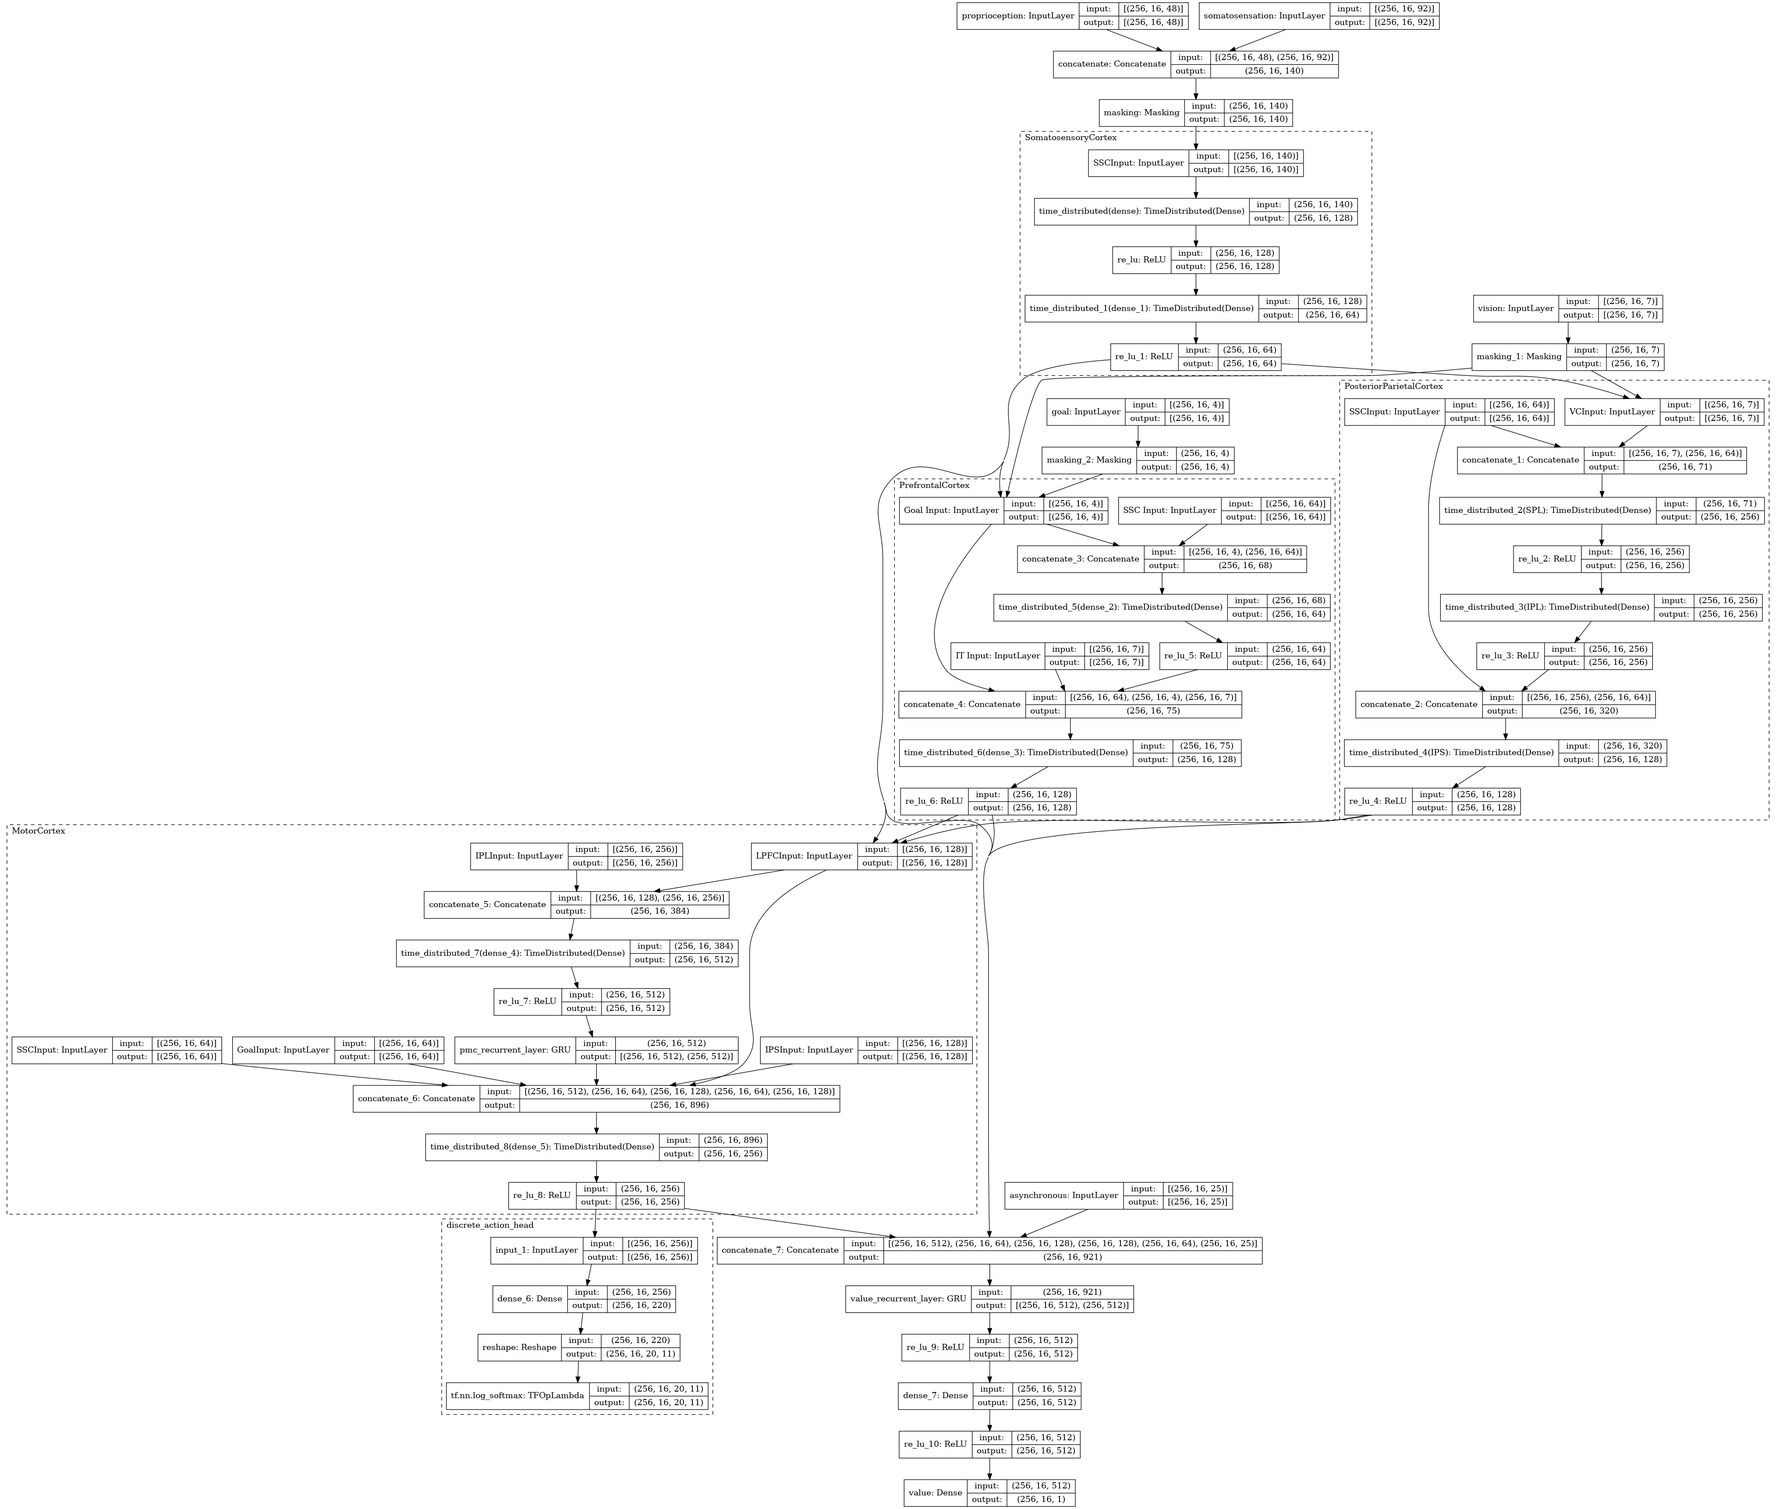
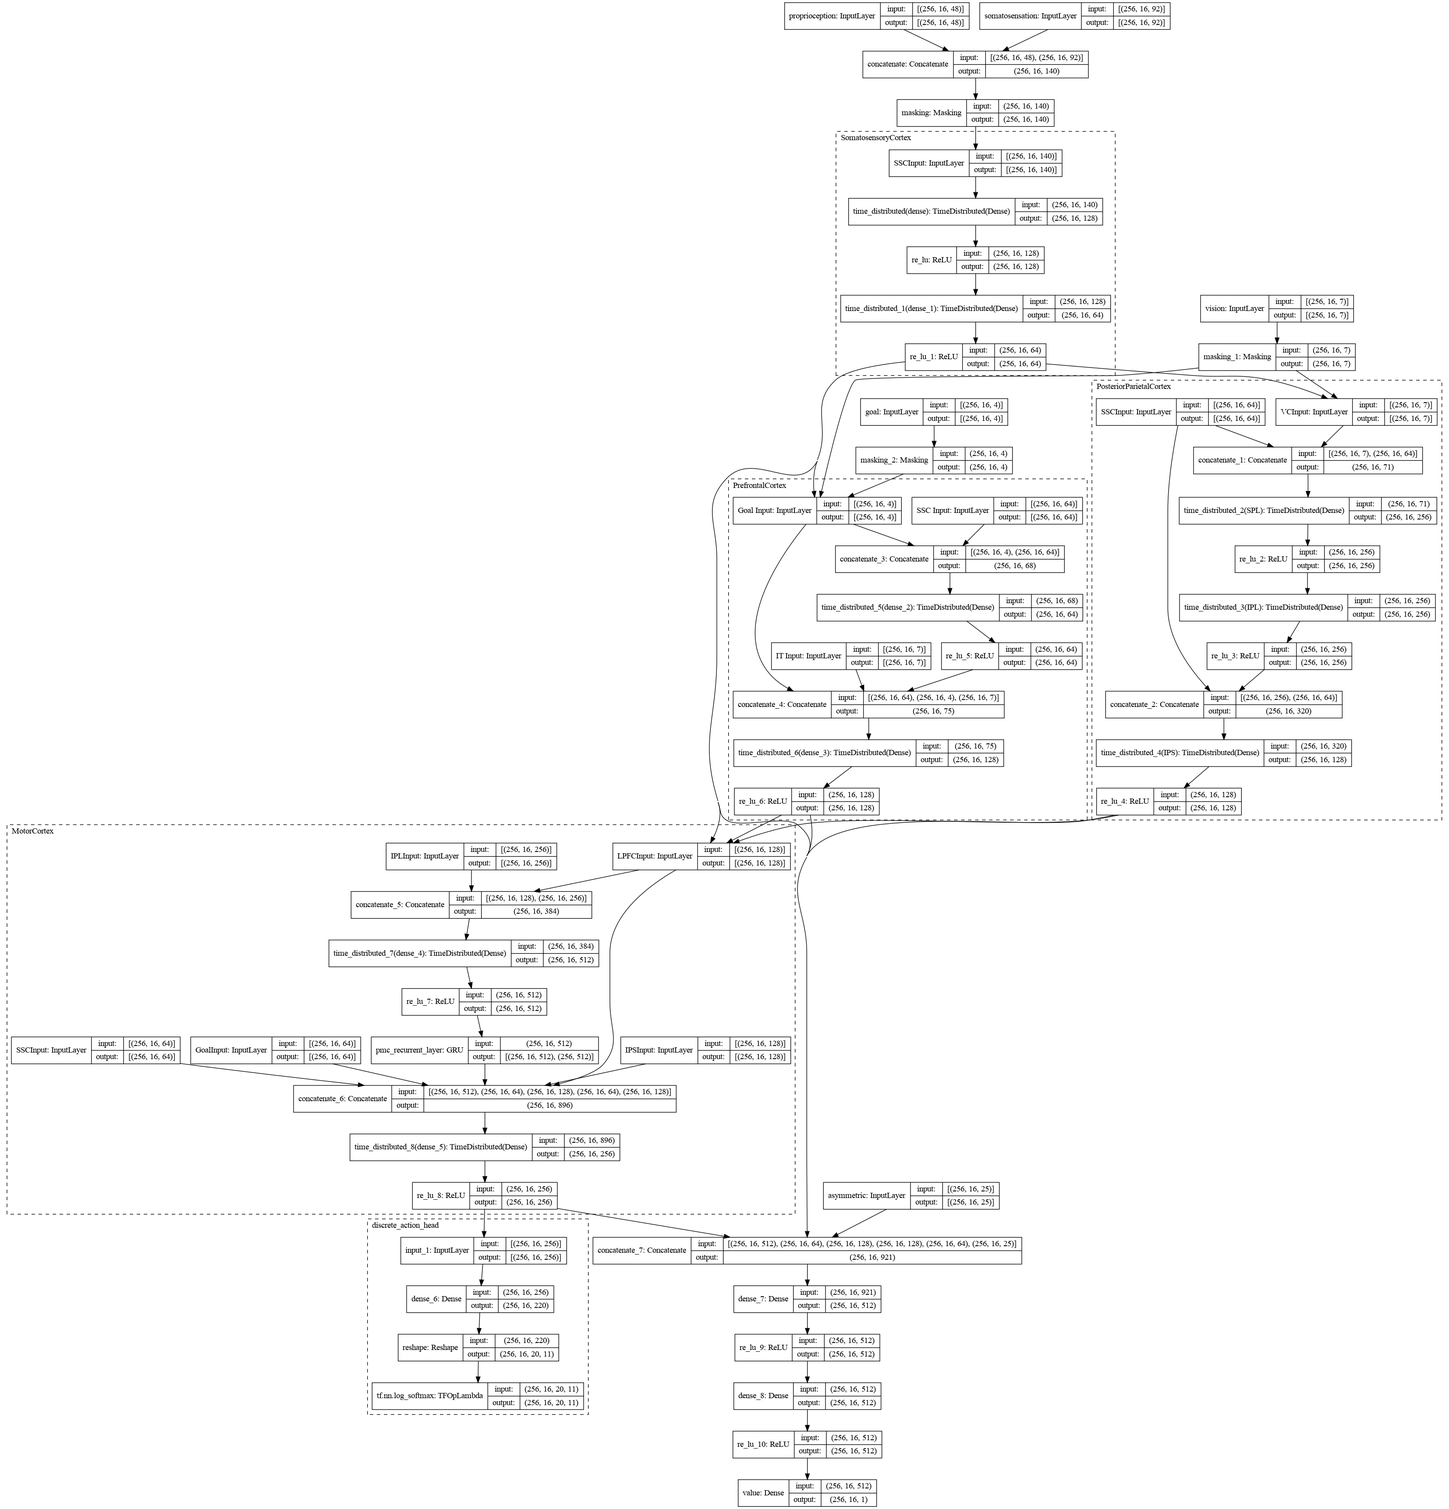
Fixed terminology for touch and asymmetric; Added backwardscompatibility for this change when loading transformers.

diff --git a/angorapy/common/senses.py b/angorapy/common/senses.py
@@ -10,20 +10,20 @@ class Sensation(dict):
     encapsulated too. The convention is to refer to any non-sensory data as proprioception, following the intuition
     that it represents inner states."""
 
-    sense_names = ["vision", "somatosensation", "proprioception", "goal", "asynchronous"]
+    sense_names = ["vision", "touch", "proprioception", "goal", "asymmetric"]
 
-    def __init__(self, vision: np.ndarray = None, proprioception: np.ndarray = None, somatosensation: np.ndarray = None,
-                 goal: np.ndarray = None, asynchronous: np.ndarray = None):
+    def __init__(self, vision: np.ndarray = None, proprioception: np.ndarray = None, touch: np.ndarray = None,
+                 goal: np.ndarray = None, asymmetric: np.ndarray = None):
         super().__init__()
 
-        assert not all(s is None for s in (vision, somatosensation, proprioception, goal)), \
+        assert not all(s is None for s in (vision, touch, proprioception, goal)), \
             "Sensation requires data for at least on sense (or 'goal')."
 
         self.vision = vision.astype(np.float32) if vision is not None else None
-        self.somatosensation = somatosensation.astype(np.float32) if somatosensation is not None else None
+        self.touch = touch.astype(np.float32) if touch is not None else None
         self.proprioception = proprioception.astype(np.float32) if proprioception is not None else None
         self.goal = goal.astype(np.float32) if goal is not None else None
-        self.asynchronous = asynchronous.astype(np.float32) if asynchronous is not None else None
+        self.asymmetric = asymmetric.astype(np.float32) if asymmetric is not None else None
 
     def __repr__(self):
         return str(self.__dict__)
@@ -41,18 +41,13 @@ class Sensation(dict):
 
     @property
     def s(self):
-        """Shortcut for somatosensation."""
-        return self.somatosensation
-
-    @property
-    def touch(self):
-        """Shortcut for somatosensation."""
-        return self.somatosensation
+        """Shortcut for touch."""
+        return self.touch
 
     @property
     def t(self):
-        """Shortcut for somatosensation."""
-        return self.somatosensation
+        """Shortcut for touch."""
+        return self.touch
 
     @property
     def p(self):
@@ -67,7 +62,7 @@ class Sensation(dict):
     # MAGIC
 
     def __iter__(self):
-        return iter((self.vision, self.somatosensation, self.proprioception, self.goal, self.asynchronous))
+        return iter((self.vision, self.touch, self.proprioception, self.goal, self.asymmetric))
 
     def __len__(self):
         return 5
@@ -92,9 +87,9 @@ class Sensation(dict):
         new_sensation = Sensation(
             vision=self.vision + other.vision if self.vision is not None else None,
             proprioception=self.proprioception + other.proprioception if self.proprioception is not None else None,
-            somatosensation=self.somatosensation + other.somatosensation if self.somatosensation is not None else None,
+            touch=self.touch + other.touch if self.touch is not None else None,
             goal=self.goal + other.goal if self.goal is not None else None,
-            asynchronous=self.asynchronous + other.asynchronous if self.asynchronous is not None else None,
+            asymmetric=self.asymmetric + other.asymmetric if self.asymmetric is not None else None,
         )
 
         return new_sensation
@@ -103,9 +98,9 @@ class Sensation(dict):
         new_sensation = Sensation(
             vision=self.vision - other.vision if self.vision is not None else None,
             proprioception=self.proprioception - other.proprioception if self.proprioception is not None else None,
-            somatosensation=self.somatosensation - other.somatosensation if self.somatosensation is not None else None,
+            touch=self.touch - other.touch if self.touch is not None else None,
             goal=self.goal - other.goal if self.goal is not None else None,
-            asynchronous=self.asynchronous - other.asynchronous if self.asynchronous is not None else None,
+            asymmetric=self.asymmetric - other.asymmetric if self.asymmetric is not None else None,
         )
 
         return new_sensation
@@ -114,9 +109,9 @@ class Sensation(dict):
         new_sensation = Sensation(
             vision=self.vision ** other if self.vision is not None else None,
             proprioception=self.proprioception ** other if self.proprioception is not None else None,
-            somatosensation=self.somatosensation ** other if self.somatosensation is not None else None,
+            touch=self.touch ** other if self.touch is not None else None,
             goal=self.goal ** other if self.goal is not None else None,
-            asynchronous=self.asynchronous ** other if self.asynchronous is not None else None,
+            asymmetric=self.asymmetric ** other if self.asymmetric is not None else None,
         )
 
         return new_sensation
@@ -126,17 +121,17 @@ class Sensation(dict):
             new_sensation = Sensation(
                 vision=self.vision / other.vision if self.vision is not None else None,
                 proprioception=self.proprioception / other.proprioception if self.proprioception is not None else None,
-                somatosensation=self.somatosensation / other.somatosensation if self.somatosensation is not None else None,
+                touch=self.touch / other.touch if self.touch is not None else None,
                 goal=self.goal / other.goal if self.goal is not None else None,
-                asynchronous=self.asynchronous / other.asynchronous if self.asynchronous is not None else None,
+                asymmetric=self.asymmetric / other.asymmetric if self.asymmetric is not None else None,
             )
         elif isinstance(other, (int, float)) or np.isscalar(other):
             new_sensation = Sensation(
                 vision=self.vision / other if self.vision is not None else None,
                 proprioception=self.proprioception / other if self.proprioception is not None else None,
-                somatosensation=self.somatosensation / other if self.somatosensation is not None else None,
+                touch=self.touch / other if self.touch is not None else None,
                 goal=self.goal / other if self.goal is not None else None,
-                asynchronous=self.asynchronous / other if self.asynchronous is not None else None,
+                asymmetric=self.asymmetric / other if self.asymmetric is not None else None,
             )
         else:
             raise TypeError(f"Unsupported division of Sensation by {type(other)}")
@@ -150,9 +145,9 @@ class Sensation(dict):
         new_sensation = Sensation(
             vision=np.sqrt(self.vision) if self.vision is not None else None,
             proprioception=np.sqrt(self.proprioception) if self.proprioception is not None else None,
-            somatosensation=np.sqrt(self.somatosensation) if self.somatosensation is not None else None,
+            touch=np.sqrt(self.touch) if self.touch is not None else None,
             goal=np.sqrt(self.goal) if self.goal is not None else None,
-            asynchronous=np.sqrt(self.asynchronous) if self.asynchronous is not None else None,
+            asymmetric=np.sqrt(self.asymmetric) if self.asymmetric is not None else None,
         )
 
         return new_sensation
@@ -202,6 +197,7 @@ def stack_sensations(sensations: List[Sensation], add_batch_dim=False):
             sense: np.expand_dims(np.stack([s[sense] for s in sensations], axis=0), 0)
             for sense in sensations[0].dict().keys()
         })
+
 
 if __name__ == '__main__':
     ss = stack_sensations([

diff --git a/angorapy/models/shadow.py b/angorapy/models/shadow.py
@@ -17,9 +17,9 @@ from angorapy.models import _build_openai_encoder
 from angorapy.utilities.util import env_extract_dims
 
 
-def build_ssc_module(batch_and_sequence_shape, somatosensation_input_shape, activation=tf.keras.layers.ReLU):
+def build_ssc_module(batch_and_sequence_shape, touch_input_shape, activation=tf.keras.layers.ReLU):
     """Build the model of the SSC."""
-    ssc_input = tf.keras.Input(batch_shape=batch_and_sequence_shape + somatosensation_input_shape, name="SSCInput")
+    ssc_input = tf.keras.Input(batch_shape=batch_and_sequence_shape + touch_input_shape, name="SSCInput")
     ssc = TD(tf.keras.layers.Dense(128))(ssc_input)
     ssc = activation()(ssc)
     ssc = TD(tf.keras.layers.Dense(64))(ssc)
@@ -104,16 +104,16 @@ def build_shadow_brain_base(env: gym.Env, distribution: BasePolicyDistribution, 
     visual_input = tf.keras.Input(batch_shape=(bs, sequence_length, *state_dimensionality["vision"],), name="vision")
     proprio_in = tf.keras.Input(batch_shape=(bs, sequence_length, *state_dimensionality["proprioception"],),
                                 name="proprioception")
-    touch_in = tf.keras.Input(batch_shape=(bs, sequence_length, *state_dimensionality["somatosensation"],),
-                              name="somatosensation")
+    touch_in = tf.keras.Input(batch_shape=(bs, sequence_length, *state_dimensionality["touch"],),
+                              name="touch")
     goal_input = tf.keras.Input(batch_shape=(bs, sequence_length, *state_dimensionality["goal"],), name="goal")
 
     input_list = [visual_input, proprio_in, touch_in, goal_input]
 
-    somatosensation = tf.keras.layers.concatenate([proprio_in, touch_in])
-    somatosensation_masked = tf.keras.layers.Masking(
-        batch_input_shape=somatosensation.shape
-    )(somatosensation)
+    touch = tf.keras.layers.concatenate([proprio_in, touch_in])
+    touch_masked = tf.keras.layers.Masking(
+        batch_input_shape=touch.shape
+    )(touch)
 
     if blind:
         vc = visual_input
@@ -123,8 +123,8 @@ def build_shadow_brain_base(env: gym.Env, distribution: BasePolicyDistribution, 
     vision_masked = tf.keras.layers.Masking(batch_input_shape=visual_input.shape)(vc)
     goal_masked = tf.keras.layers.Masking(batch_input_shape=goal_input.shape)(goal_input)
 
-    ssc = build_ssc_module((bs, sequence_length,), (somatosensation_masked.shape[-1],), activation=activation)
-    ssc_out = ssc(somatosensation_masked)
+    ssc = build_ssc_module((bs, sequence_length,), (touch_masked.shape[-1],), activation=activation)
+    ssc_out = ssc(touch_masked)
 
     ppc = build_ppc_module((bs, sequence_length,), (vision_masked.shape[-1],), (ssc.output_shape[-1],), activation=activation)
     spl_out, ipl_out, ips_out = ppc([vision_masked, ssc_out])
@@ -142,11 +142,11 @@ def build_shadow_brain_base(env: gym.Env, distribution: BasePolicyDistribution, 
 
     # value head
     value_inputs = [pmc_out, mcc_out, ips_out, lpfc_out, ssc_out]
-    if "asynchronous" in state_dimensionality.keys():
-        asynchronous = tf.keras.Input(batch_shape=(bs, sequence_length,) + state_dimensionality["asynchronous"],
-                                      name="asynchronous")
-        input_list.append(asynchronous)
-        value_inputs.append(asynchronous)
+    if "asymmetric" in state_dimensionality.keys():
+        asymmetric = tf.keras.Input(batch_shape=(bs, sequence_length,) + state_dimensionality["asymmetric"],
+                                      name="asymmetric")
+        input_list.append(asymmetric)
+        value_inputs.append(asymmetric)
 
     value_in = tf.keras.layers.concatenate(value_inputs)
     value_out = tf.keras.layers.Dense(512)(value_in)
@@ -194,7 +194,7 @@ if __name__ == "__main__":
     joint({
         "vision": tf.random.normal((batch_size, sequence_length, 7)),
         "proprioception": tf.random.normal((batch_size, sequence_length, 48)),
-        "somatosensation": tf.random.normal((batch_size, sequence_length, 92)),
-        "asynchronous": tf.random.normal((batch_size, sequence_length, 25)),
+        "touch": tf.random.normal((batch_size, sequence_length, 92)),
+        "asymmetric": tf.random.normal((batch_size, sequence_length, 25)),
         "goal": tf.random.normal((batch_size, sequence_length, 4)),
     })

diff --git a/angorapy/models/simple.py b/angorapy/models/simple.py
@@ -28,7 +28,7 @@ def build_ffn_models(env: BaseWrapper,
 
     input_list = []
     for sense_name in state_dimensionality.keys():
-        if sense_name == "asynchronous":
+        if sense_name == "asymmetric":
             continue
 
         input_node = tf.keras.Input(shape=state_dimensionality[sense_name], name=sense_name)
@@ -46,8 +46,8 @@ def build_ffn_models(env: BaseWrapper,
     policy = tf.keras.Model(inputs=input_list, outputs=out_policy, name="policy")
 
     # value network
-    if "asynchronous" in state_dimensionality.keys():
-        asymmetric_inputs = tf.keras.Input(shape=state_dimensionality["asynchronous"], name="asymmetric")
+    if "asymmetric" in state_dimensionality.keys():
+        asymmetric_inputs = tf.keras.Input(shape=state_dimensionality["asymmetric"], name="asymmetric")
         inputs = tf.keras.layers.Concatenate(name="added_asymmetric_inputs")([inputs, asymmetric_inputs])
         input_list.append(asymmetric_inputs)
     if not shared:
@@ -83,7 +83,7 @@ def build_rnn_models(env: BaseWrapper,
 
     input_list = []
     for sense_name in state_dimensionality.keys():
-        if sense_name == "asynchronous":
+        if sense_name == "asymmetric":
             continue
 
         input_node = tf.keras.Input(batch_shape=(bs, sequence_length,) + state_dimensionality[sense_name], name=sense_name)
@@ -94,8 +94,8 @@ def build_rnn_models(env: BaseWrapper,
     else:
         inputs = input_list[0]
 
-    if "asynchronous" in state_dimensionality.keys():
-        asymmetric_inputs = tf.keras.Input(batch_shape=(bs, sequence_length,) + state_dimensionality["asynchronous"], name="asynchronous")
+    if "asymmetric" in state_dimensionality.keys():
+        asymmetric_inputs = tf.keras.Input(batch_shape=(bs, sequence_length,) + state_dimensionality["asymmetric"], name="asymmetric")
         value_inputs = tf.keras.layers.Concatenate(name="added_asymmetric_inputs")([inputs, asymmetric_inputs])
         input_list.append(asymmetric_inputs)
     else:
@@ -144,7 +144,7 @@ def build_rnn_models(env: BaseWrapper,
         out_value = tf.keras.layers.Dense(1, kernel_initializer=tf.keras.initializers.Orthogonal(1.0),
                                           bias_initializer=tf.keras.initializers.Constant(0.0), name="value_out")(x)
     else:
-        if "asynchronous" in state_dimensionality.keys():
+        if "asymmetric" in state_dimensionality.keys():
             x = tf.keras.layers.Concatenate()([x, asymmetric_inputs])
 
         out_value = tf.keras.layers.Dense(1, input_dim=x.shape[1:],
@@ -231,9 +231,9 @@ if __name__ == '__main__':
     # plot_model(model[2], show_shapes=True, to_file="model_graph_deeper.png", expand_nested=True)
 
     model = build_wider_models(cont_env, MultiCategoricalPolicyDistribution(cont_env), False, 1, 1, "gru")
-    print(f"Wider model has {model[2].count_params()} parameters.")
+    print(f"Wider model without weight sharing has {model[2].count_params()} parameters.")
     plot_model(model[2], show_shapes=True, to_file="model_graph_wider_unshared.png", expand_nested=True)
 
     model = build_wider_models(cont_env, MultiCategoricalPolicyDistribution(cont_env), True, 1, 1, "gru")
-    print(f"Wider model has {model[2].count_params()} parameters.")
+    print(f"Wider model with weight sharing has {model[2].count_params()} parameters.")
     plot_model(model[2], show_shapes=True, to_file="model_graph_wider_shared.png", expand_nested=True)

diff --git a/angorapy/environments/hand/manipulate.py b/angorapy/environments/hand/manipulate.py
@@ -330,7 +330,7 @@ class BaseManipulate(BaseShadowHandEnv):
             "observation": Sensation(
                 vision=object_qpos,
                 proprioception=proprioception.copy(),
-                somatosensation=None,
+                touch=None,
                 goal=target_orientation),
             "achieved_goal": object_qpos.copy(),
             "desired_goal": self.goal.ravel().copy(),
@@ -455,7 +455,7 @@ class OpenAIManipulate(BaseManipulate, utils.EzPickle):
             "observation": Sensation(
                 vision=None,
                 proprioception=proprioception.copy(),
-                somatosensation=None,
+                touch=None,
                 goal=target_orientation),
             "achieved_goal": object_qpos.copy(),
             "desired_goal": self.goal.ravel().copy(),
@@ -511,9 +511,9 @@ class HumanoidManipulateBlockDiscrete(ManipulateBlock):
             "observation": Sensation(
                 vision=vision_input,
                 proprioception=proprioception.copy(),
-                somatosensation=touch,
+                touch=touch,
                 goal=target_orientation,
-                asynchronous=None if not self.asynchronous else asynchronous
+                asymmetric=None if not self.asynchronous else asynchronous
             ),
             "achieved_goal": object_qpos.copy().astype(np.float32),
             "desired_goal": self.goal.ravel().copy().astype(np.float32),

diff --git a/angorapy/common/transformers.py b/angorapy/common/transformers.py
@@ -127,8 +127,15 @@ class BaseRunningMeanTransformer(BaseTransformer, abc.ABC):
         """Recover a running mean transformer from its serialization"""
         transformer = cls(env_id, state_dim, n_actions)
         transformer.n = np.array(data[0])
-        transformer.mean = {name: np.array(l) for name, l in data[1].items()}
-        transformer.variance = {name: np.array(l) for name, l in data[2].items()}
+
+        # backwards compatibility
+        compatible_data_means = {name if name != "somatosensation" else "touch": l for name, l in data[1].items()}
+        compatible_data_variances = {name if name != "somatosensation" else "touch": l for name, l in data[2].items()}
+        compatible_data_means = {name if name != "asynchronous" else "asymmetric": l for name, l in compatible_data_means.items()}
+        compatible_data_variances = {name if name != "asynchronous" else "asymmetric": l for name, l in compatible_data_variances.items()}
+
+        transformer.mean = {name: np.array(l) for name, l in compatible_data_means.items()}
+        transformer.variance = {name: np.array(l) for name, l in compatible_data_variances.items()}
 
         return transformer
 

diff --git a/angorapy/utilities/monitoring.py b/angorapy/utilities/monitoring.py
@@ -155,7 +155,7 @@ class Monitor:
                 reward_norming=str(any([isinstance(t, RewardNormalizationTransformer) for t in self.env.transformers])),
                 state_norming=str(any([isinstance(t, StateNormalizationTransformer) for t in self.env.transformers])),
                 TBPTT_sequence_length=str(self.agent.tbptt_length),
-                architecture=self.agent.builder_function_name.split("_")[1],
+                architecture=self.agent.builder_function_name,
                 gatherer=str(self.agent.gatherer_class),
                 **additional_hps
             ),

diff --git a/angorapy/environments/hand/reach.py b/angorapy/environments/hand/reach.py
@@ -124,7 +124,7 @@ class Reach(BaseShadowHandEnv):
         return {
             'observation': Sensation(
                 proprioception=proprioception,
-                somatosensation=touch if self.touch else None,
+                touch=touch if self.touch else None,
                 vision=self.render("rgb_array", VISION_WH, VISION_WH) if self.vision else np.array([]),
                 goal=self.goal.copy()
             ),
